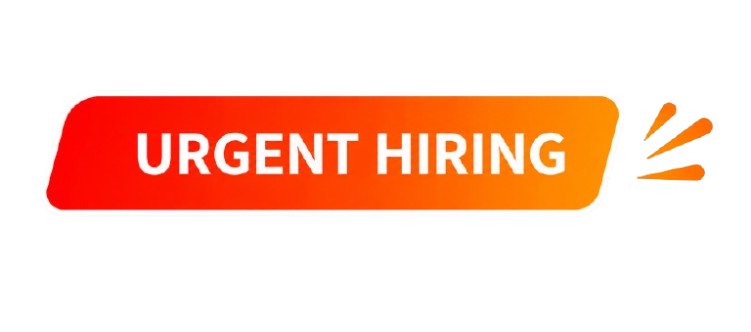
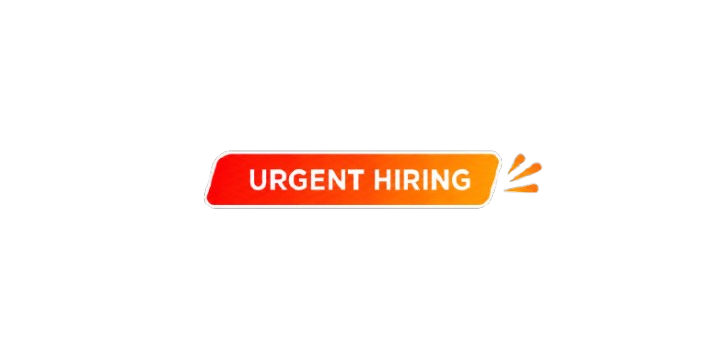
Fix apply job modal again

Changed region(s): [[0.0622, 0.2711, 0.9646, 0.6325], [0.8402, 0.4819, 0.9646, 0.5422]]

diff --git a/frontend/src/pages/main/JobOffers.jsx b/frontend/src/pages/main/JobOffers.jsx
@@ -1514,14 +1514,14 @@ const JobOffers = () => {
                       className="group relative overflow-visible rounded-[22px] p-5 bg-white shadow-[0_6px_18px_rgba(0,0,0,0.045)] hover:shadow-[0_14px_34px_rgba(33,44,97,0.13)] hover:-translate-y-0.5 transition-all duration-200 flex flex-col min-h-[372px]"
                       style={{ border: `1px solid ${COLORS.border}` }}
                     >
-                     {job.isUrgent ? (
-  <img
-    src="/images/urgentss.png"
-    alt="Urgent Hiring"
-    draggable="false"
-    className="pointer-events-none absolute -top-[12px] left-1/2 -translate-x-1/2 z-10 w-[110px] h-auto select-none"
-  />
-) : null}
+                      {job.isUrgent ? (
+                        <img
+                          src="/images/gentneeded.png"
+                          alt="Urgent Hiring"
+                          draggable="false"
+                          className="pointer-events-none absolute -top-[66px] -left-[50px] z-10 w-[230px] max-w-none select-none"
+                        />
+                      ) : null}
 
                       <div className="flex items-start justify-between gap-3">
                         <div className="flex items-start gap-4 min-w-0 flex-1">
